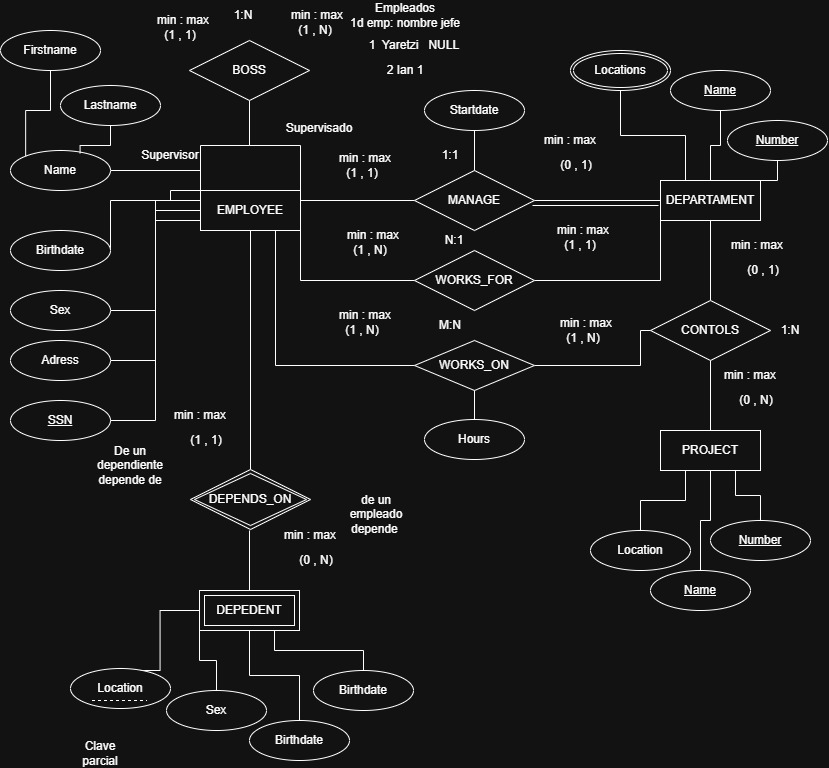
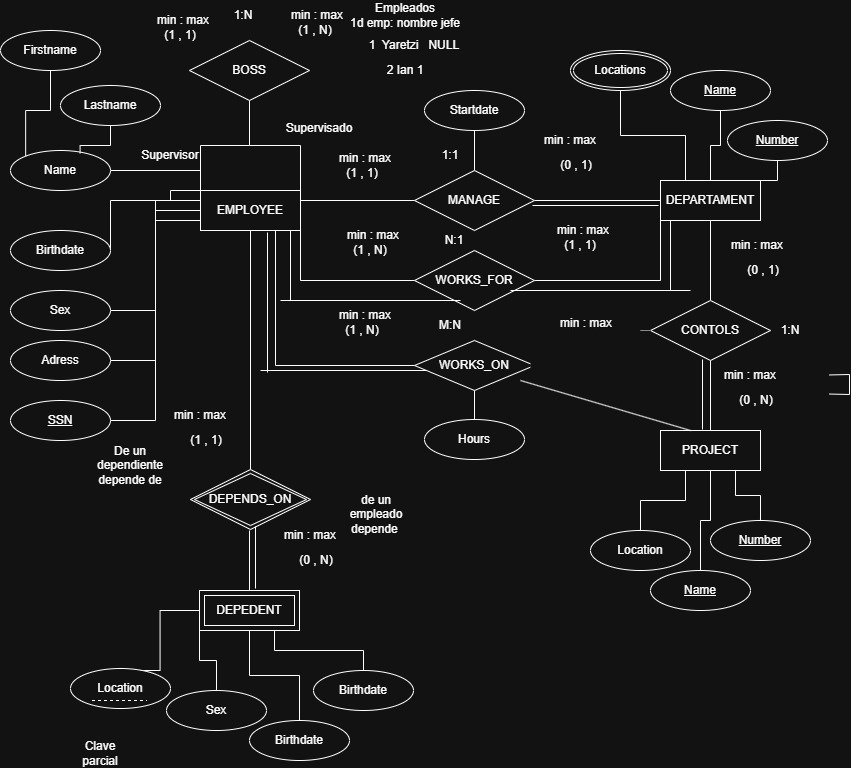
Se realizaron algunos ejercicios del modelo E-R y se mapearon algunos otros al modelo Relacional, se agregó un ejemplo de diccionario de datos, falta por concluir alguna documentación para terminar la unidad.

diff --git a/02-Modelado-BaseDatos/03-Diccionario-control-escolar.md b/02-Modelado-BaseDatos/03-Diccionario-control-escolar.md
@@ -1,0 +1,111 @@
+# Diccionario de Datos de la base de datos de Control Escolar
+
+1. Información General:
+
+| Elemento | Valor |
+| :--- | :--- |
+| Proyecto | Control Escolar |
+| Versión | 1.0 |
+| Fecha | Junio 2026 |
+| Elaboro | Ing. Adair Jesús Cruz Huitrón |
+| SGBD | SQLServer |
+
+2. Descripción del Sistema de Base de Datos
+
+El sistema administra:
+- Carreras
+- Alumnos
+- Profesores
+- Materias
+- Grupos
+- Descripciones
+
+Permite controlar la oferta académica y la inscripción de estudiantes.
+
+3. Catalogo de Restricciones utilizados
+
+| Código | Significado |
+| :--- | :--- |
+| PK | Primary key |
+| FK | Foreign Key |
+| NN | Not Null |
+| UQ | Unique |
+| AI | Auto Increment |
+
+4 Diccionario de Datos
+
+## Tabla: Carrera
+
+**Descripción**
+
+Almacena las carreras ofertadas por la universidad
+
+| Campo | Tipo | Longitud | Restricciones | Descripción |
+| :--- | :--- | :--- | :--- | :--- |
+| Id_carrera | INT | - | PK, AI, NN |Identificador único de la carrera |
+| nombre | VARCHAR | 100 | UQ,NN | Nombre de la carrera |
+| Duracion_cuatri | INT | - | NN, CK(>0) | Nombre de la carrera |
+
+
+## Tabla: Alumno
+
+**Descripción**
+
+Almacena las carreras ofertadas por la universidad
+
+| Campo | Tipo | Longitud | Restricciones | Descripción |
+| :--- | :--- | :--- | :--- | :--- |
+| Id_alumno | INT | - | PK, AI, NN |Identificador único del alumno |
+| matricula | VARCHAR | 10 | UQ, NN | MAtrícula institucional |
+| apellido_paterno | VARCHAR | 50 | NN | Apellido paterno |
+| apellido_materno | VARCHAR | 50 | NULL | Apellido materno |
+| correo | VARCHAR | 100 | UQ, NN | Correo institucional |
+| fecha_nacimiento | DATE | - | NN | Fecha de nacimiento |
+| id_carrera | iNT | - | FK, NN | Clave foranea  |
+
+
+--
+
+5. Relaciones del sistema
+
+
+| Relación | Cardinalidad | Descripción |
+| :--- | :--- | :--- |
+| carrera -> Alumno | 1:N | Una carrera tiene muchos alumnos |
+| carrera -> Materia | 1:N | Una carrera tiene muchas materias |
+| Profesor -> Grupo | 1:N | Un profesor puede impartir varios grupos |
+| Materia -> Grupo | 1:N | Una materia puede impartir varios grupos |
+| Alumno -> Inscripción | 1:N | Un alumno puede tener varias inscripciones |
+| Grupo -> Inscripción | 1:N | Un grupo puede tener varios alumnos |
+
+6. Matriz de claves franeas
+
+| Tabla | Campo FK | Referencia |
+| :--- | :--- | :--- |
+| Alumno | id_carrera | Carrera(id_carrera) |
+| Materia | id_carrera | Carrera(id_carrera) |
+| Grupo | id_profesor | Profesor(id_profesor) |
+| Grupo | id_materia | Materia(if_materia) |
+| Inscripción | id_alumno | Alumno(id_alumno) |
+| Inscripción | id_grupo | Grupo(id_grupo) |
+
+7. Integridad Referencial
+
+| Código | Regla |
+| :--- | :--- |
+| IR-01 | No se puede registrar un alumno con una carrera inexistente |
+| IR-02 | No se puede crear un grupo para una materia inexistente |
+| IR-03 | No se puede crear un grupo para un profesor inexistente |
+| IR-04 | No se puede inscribir un alumno en un grupo inexistente |
+| IR-05 | No se puede eliminar una carrera que tenga alumnos asociados sin antes reasignarlos o eliminarlos |
+
+8. Reglas del negocio
+
+| Código | Regla |
+| :--- | :--- |
+| RN-01 | Un alumno pertenece a una sola carrera |
+| RN-02 | Una carrera puede tener muchos alumnos |
+| RN-03 | Una carrera puede tener muchas materias |
+| RN-04 | Un progesor puede impartir varios grupos |
+| RN-05 | Un grupo solo puede tener un profesor asignado |
+| RN-06 | La calificación debe estar entre 0.0 y 10.0 |

diff --git a/02-Modelado-BaseDatos/02-EjerciciosRelacional.md b/02-Modelado-BaseDatos/02-EjerciciosRelacional.md
@@ -1,0 +1,9 @@
+# Ejercicio 1
+
+1. Ejercicio 1. Hospital
+## Modelo E-R
+![Hospital](../img/E-R/EJERCICIO1.jpg)
+
+## Modelo Relacional
+
+![Hospital](../img/Relacional/EJERCICIO1.jpg)